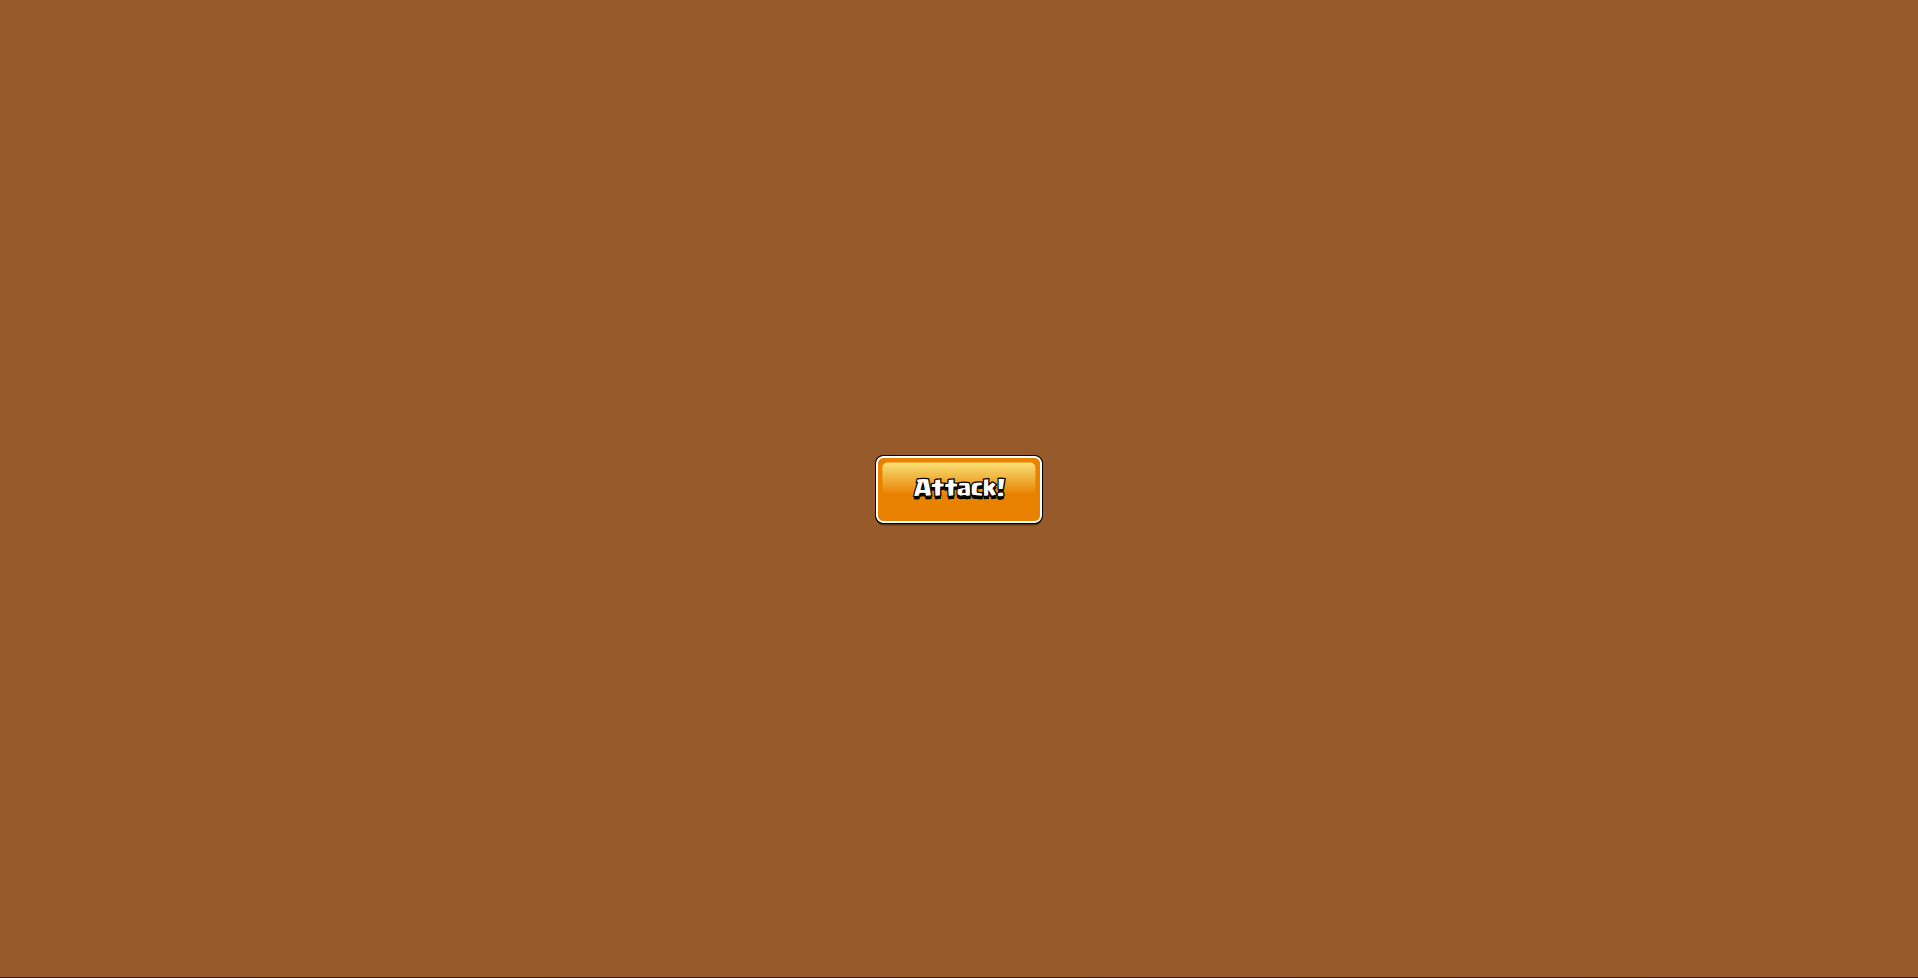
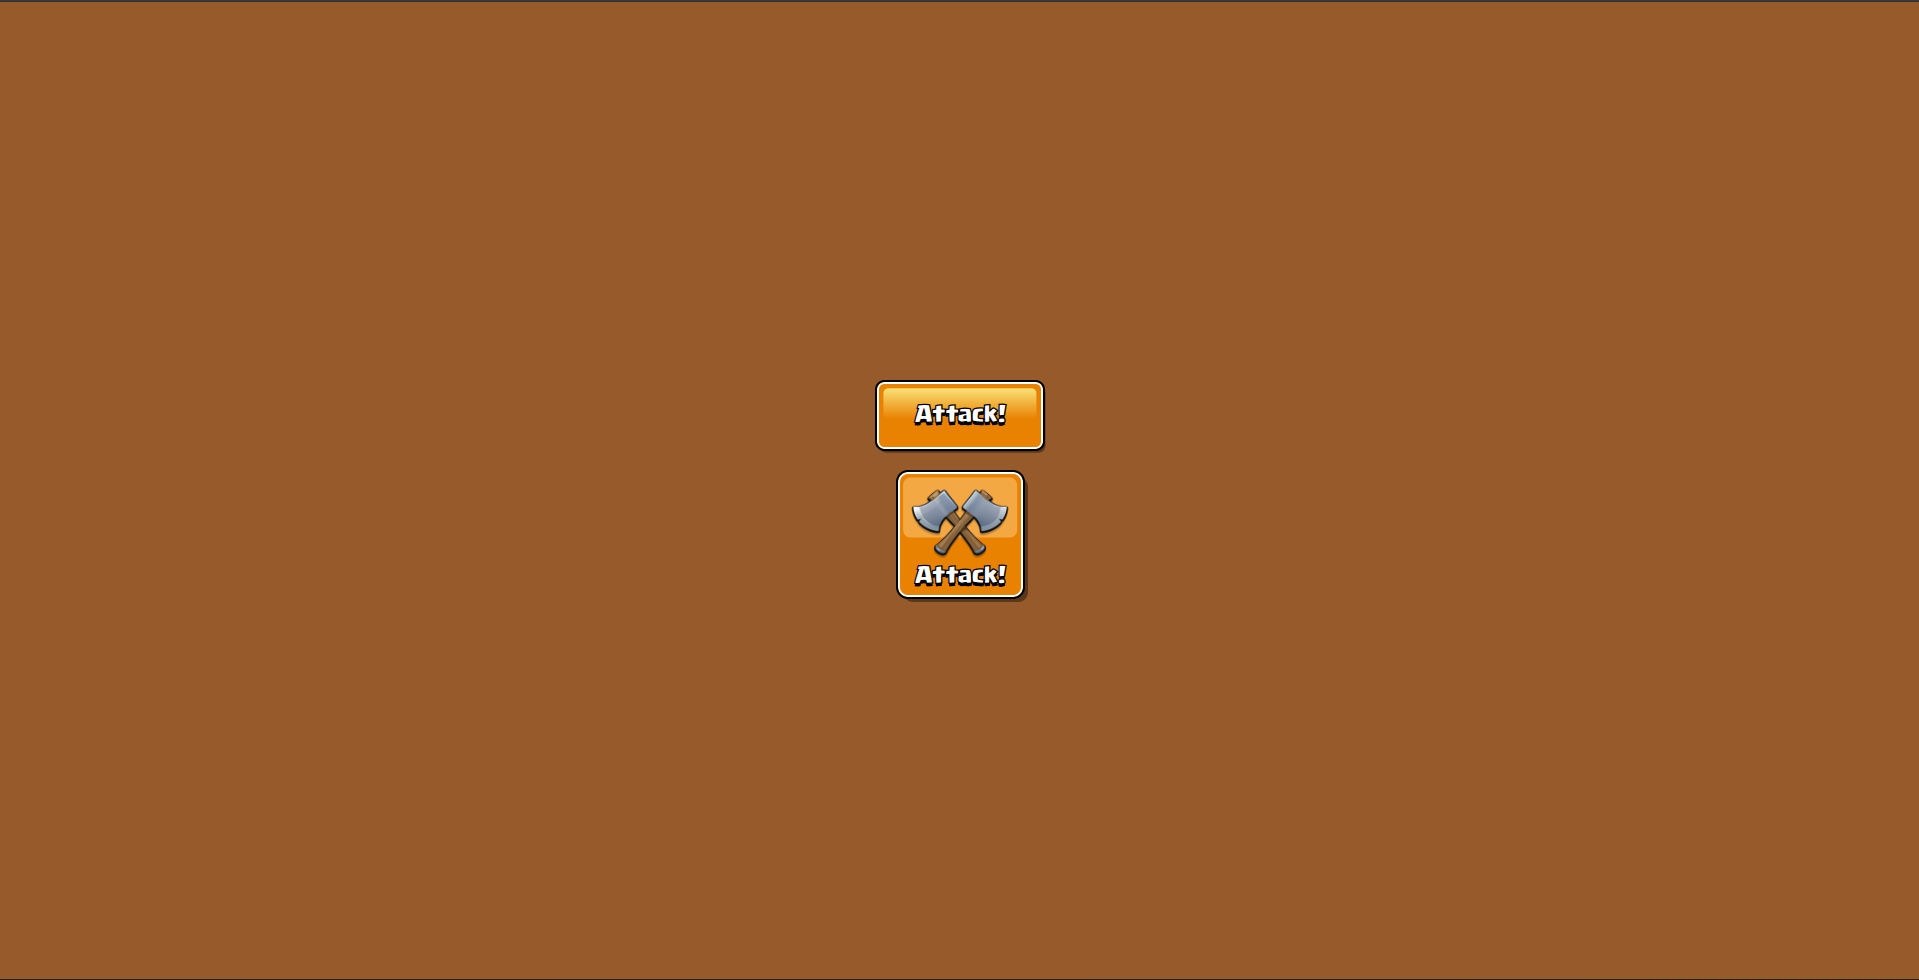
Revamp COC button

Changed region(s): [[0.4307, 0.3681, 0.5537, 0.6135]]

diff --git a/coc-button/style.css b/coc-button/style.css
@@ -27,33 +27,21 @@ body {
     font-family: sans-serif;
 }
 
-.coc-text-button {
-    padding: 16px 28px;
+/* Common Styles */
+
+.coc-button {
     display: inline-block;
     border-radius: 6px;
     background-color: #e98101;
-    outline: 1px solid #000;
+    outline: 2px solid #000;
     border: 2px solid #fff;
-    box-shadow: 0px 2px 0px rgba(0, 0, 0, .4);
+    box-shadow: 2px 3px 0px rgba(0, 0, 0, .4);
     position: relative;
     overflow: hidden;
     cursor: pointer;
 }
 
-.coc-text-button::before {
-    content: '';
-    width: 95%;
-    height: 50%;
-    background: rgb(255, 207, 134);
-    background: linear-gradient(180deg, rgb(249, 225, 118) 0%, rgba(255, 255, 255, 0) 100%);
-    position: absolute;
-    left: 50%;
-    top: 50%;
-    transform: translate(-50%, -84%);
-    border-radius: 4px;
-}
-
-.coc-text-button span {
+.coc-button span {
     font-size: 18px;
     font-family: 'coc-font';
     -webkit-text-stroke: 1px black;
@@ -64,6 +52,62 @@ body {
     z-index: 2;
 }
 
-.coc-text-button:active {
+.coc-button:active {
     scale: .9;
+}
+
+.coc-button::before {
+    content: '';
+    width: 95%;
+    height: 50%;
+    position: absolute;
+    left: 50%;
+    top: 50%;
+    transform: translate(-50%, -88%);
+    z-index: 0; 
+}
+
+/* Text Button */
+.coc-text-button {
+    padding: 16px 28px;
+}
+
+.coc-text-button::before {
+    background: rgb(255, 207, 134);
+    background: linear-gradient(180deg, rgb(249, 225, 118) 0%, rgba(255, 255, 255, 0) 100%);
+    border-radius: 4px;
+}
+
+/* Icon Button */
+.coc-icon-button {
+    width: 100px;
+    height: 100px;
+    border-radius: 8px;
+    box-shadow: 4px 4px 0px rgba(0, 0, 0, .4);
+}
+
+.coc-icon-button::before {
+    width: 94%;
+    background: rgba(255, 207, 134, .5);
+    border-radius: 6px;
+    transform: translate(-50%, -95%);
+}
+
+.coc-icon-button img {
+    display: block;
+    width: 180px;
+    height: 180px;
+    position: absolute;
+    z-index: 2;
+    left: 50%;
+    top: 50%;
+    transform: translate(-50%, -55%);
+}
+
+.coc-icon-button span {
+    position: absolute;
+    z-index: 2;
+    left: 50%;
+    top: 50%;
+    transform: translate(-50%, 132%);
 }

diff --git a/coc-button/index.html b/coc-button/index.html
@@ -8,9 +8,22 @@
 </head>
 <body>
     <div>
-        <button class="coc-text-button">
-            <span>Attack!</span>
-        </button>
+        <div>
+            <center>
+                <button class="coc-button coc-text-button">
+                    <span>Attack!</span>
+                </button>
+            </center>
+        </div>
+        <br>
+        <div>
+            <center>
+                <button class="coc-button coc-icon-button">
+                    <img src="./coc-axe.png" alt="Axe">
+                    <span>Attack!</span>
+                </button>
+            </center>
+        </div>
     </div>
 </body>
 </html>
